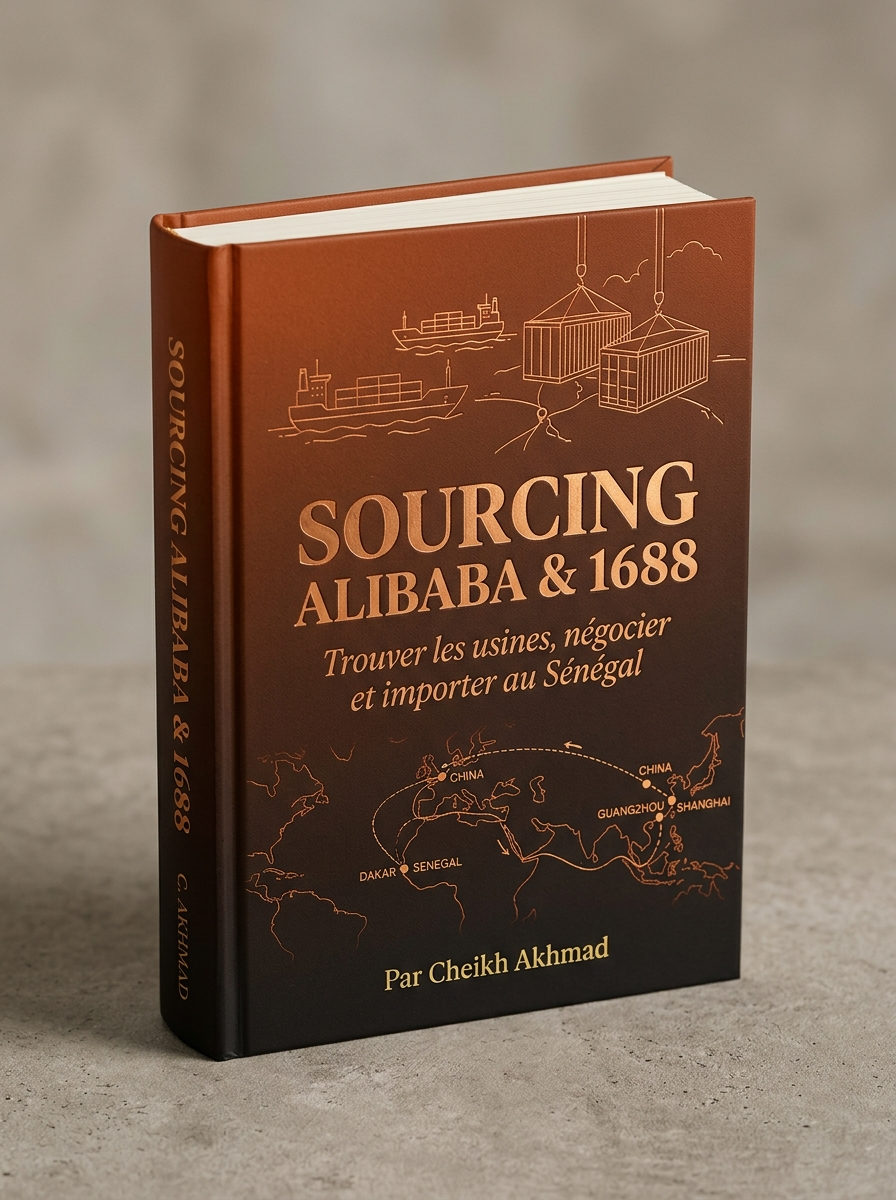
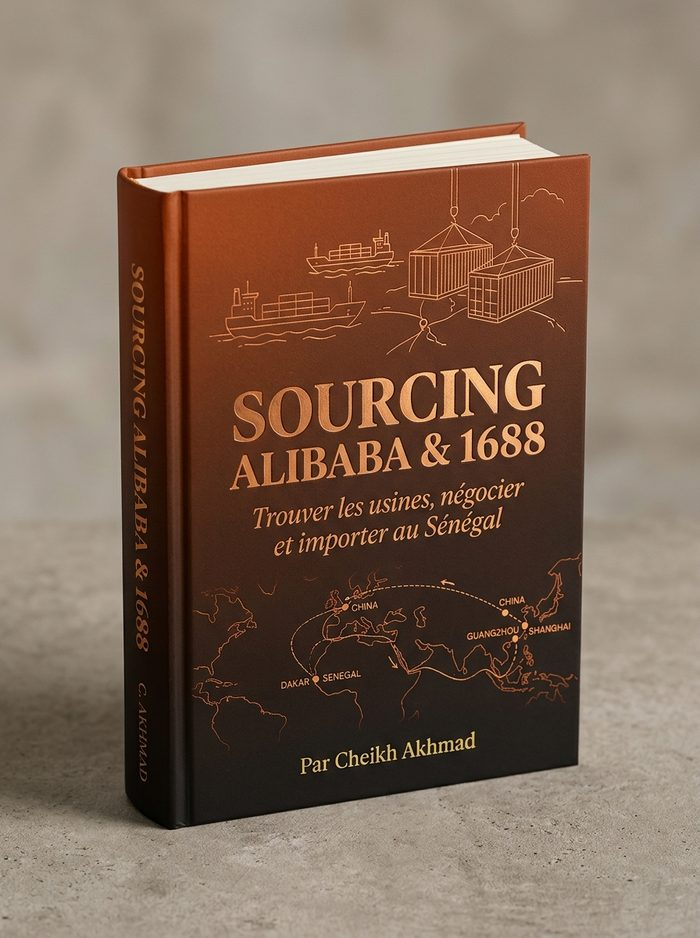
perf(covers): optimize 3D book cover weights (70KB) and update support whatsapp to +221761343904

diff --git a/src/components/Footer.tsx b/src/components/Footer.tsx
@@ -103,7 +103,7 @@ export const Footer: React.FC = () => {
               </h4>
               <div className="flex items-center gap-2.5 text-slate-300">
                 <a
-                  href="https://wa.me/221770000000"
+                  href="https://wa.me/221761343904"
                   target="_blank"
                   rel="noreferrer"
                   className="w-8 h-8 rounded-full bg-white/10 hover:bg-emerald-600 hover:text-white flex items-center justify-center transition-all"

diff --git a/src/components/Navbar.tsx b/src/components/Navbar.tsx
@@ -195,7 +195,7 @@ export const Navbar: React.FC<NavbarProps> = ({ user }) => {
               Wave Checkout 100% sécurisé
             </span>
             <a
-              href="https://wa.me/221770000000"
+              href="https://wa.me/221761343904"
               target="_blank"
               rel="noreferrer"
               className="text-[#0066FF] font-bold hover:underline flex items-center gap-1"

diff --git a/scripts/optimize-covers.py b/scripts/optimize-covers.py
@@ -1,0 +1,18 @@
+from PIL import Image
+import os
+
+images = [
+    'public/images/cover-boutique-en-ligne.jpg',
+    'public/images/cover-facebook-ads.jpg',
+    'public/images/cover-alibaba-sourcing.jpg',
+]
+
+for p in images:
+    if os.path.exists(p):
+        old_size = os.path.getsize(p)
+        im = Image.open(p)
+        # Resize to standard crisp dimensions (e.g. max width 700px)
+        im.thumbnail((700, 1000), Image.Resampling.LANCZOS)
+        im.save(p, 'JPEG', quality=82, optimize=True, progressive=True)
+        new_size = os.path.getsize(p)
+        print(f"Optimized {p}: {old_size//1024}KB -> {new_size//1024}KB")
